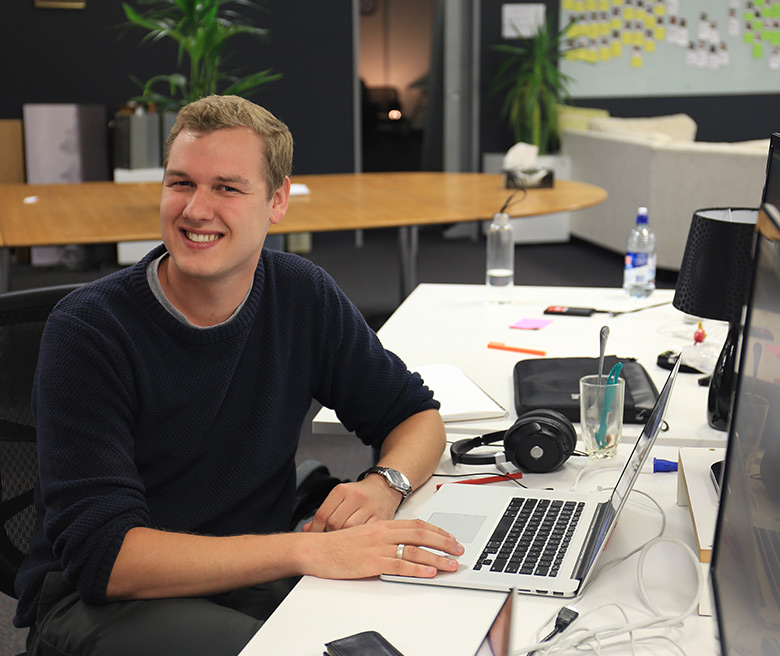
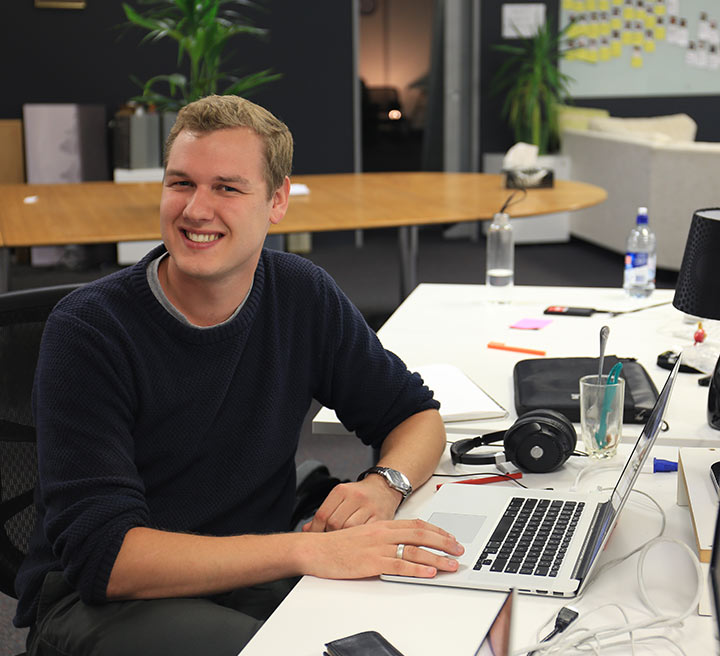
Fix about mobile styling

diff --git a/src/www/stylesheets/about.sass b/src/www/stylesheets/about.sass
@@ -2,8 +2,7 @@
   padding: 0
 
 .introCol
-  padding: 80px 30px
-  padding-left: 50px
+  padding: 80px 50px
   padding-bottom: 50px
   margin: 0
   height: 100%
@@ -16,16 +15,15 @@
   p
     margin-top: 20px
     font-size: 1.1em
-    padding-right: 40px
 
 .introRow
   background-color: #ffffff
 
-.contactLinksRow
+.profileImageCol
   margin: 0
   padding: 0
 
-.contactLinks
+.profileImage
   margin: 0
   display: flex
   padding: 0
@@ -33,11 +31,8 @@
   justify-content: flex-end
   align-items: center
 
-  h1
-    font-weight: lighter
-    margin-bottom: 0px
-    margin-top: 4px
-
+  img
+    max-height: 400px
 
 .careRowTitle
   background-color: #E4F1F8
@@ -63,15 +58,15 @@
 
 .careLeft
   padding-left: 50px
-  padding-right: 12.5px
+  padding-right: 50px
 
 .careMiddle
-  padding-left: 37.5px
-  padding-right: 37.5px
+  padding-left: 50px
+  padding-right: 50px
 
 .careRight
   padding-right: 50px
-  padding-left: 12.5px
+  padding-left: 50px
 
 .aboutRowTitle
   background-color: #ffffff
@@ -89,8 +84,28 @@
 
   .aboutMeLeft
     padding-left: 50px
-    padding-right: 25px
+    padding-right: 50px
 
   .aboutMeRight
-    padding-left: 25px
+    padding-left: 50px
     padding-right: 50px
+
+@media (min-width: 768px)
+
+  .careLeft
+    padding-right: 12.5px
+
+  .careMiddle
+    padding-left: 37.5px
+    padding-right: 37.5px
+
+  .careRight
+    padding-left: 12.5px
+
+  .aboutRowContent
+
+    .aboutMeLeft
+      padding-right: 25px
+
+    .aboutMeRight
+      padding-left: 25px

diff --git a/src/modules/About.js b/src/modules/About.js
@@ -8,7 +8,7 @@ class About extends Component {
     return (
       <div className='aboutMain'>
         <Row className='introRow'>
-          <Col sm={8} className='introCol'>
+          <Col md={8} className='introCol'>
             <div>
               <h1>
                 Hey, I'm Nick.
@@ -24,9 +24,9 @@ class About extends Component {
               </p>
             </div>
           </Col>
-          <Col sm={4} className='contactLinksRow'>
-            <div className='contactLinks'>
-              <Image src='/images/nick-about.jpg' />
+          <Col md={4} className='profileImageCol'>
+            <div className='profileImage'>
+              <Image src='/images/nick-about.jpg' responsive/>
             </div>
           </Col>
         </Row>
